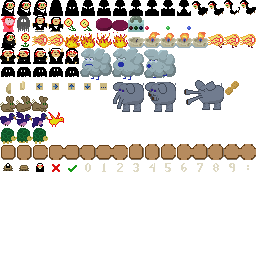
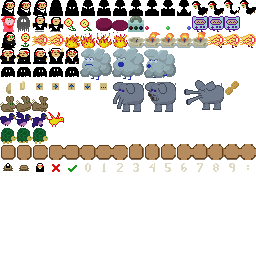
jammio cameo

Changed region(s): [[0.75, 0.0625, 0.9375, 0.125]]

diff --git a/src/game/hero/hero_event.c b/src/game/hero/hero_event.c
@@ -103,6 +103,11 @@ static void hero_cast_turtle(struct sprite *sprite) {
   SPRITE->mode=HERO_MODE_TURTLE;
   //TODO sound effect
 }
+ 
+static void hero_cast_jammio(struct sprite *sprite) {
+  SPRITE->mode=HERO_MODE_JAMMIO;
+  //TODO sound effect
+}
 
 static void hero_end_transform(struct sprite *sprite) {
 
@@ -147,6 +152,7 @@ static void hero_end_hole(struct sprite *sprite) {
   SPELLCHECK(rabbit,DIR_E,DIR_E,DIR_S,DIR_E)
   SPELLCHECK(bird,DIR_N,DIR_N,DIR_W,DIR_E,DIR_N)
   SPELLCHECK(turtle,DIR_W,DIR_W,DIR_E,DIR_E,DIR_S)
+  SPELLCHECK(jammio,DIR_N,DIR_N,DIR_S,DIR_S,DIR_W,DIR_E,DIR_W,DIR_E)
   #undef SPELLCHECK
   SPRITE->spellc=0;
   //TODO repudiation
@@ -326,6 +332,7 @@ static void hero_action_begin(struct sprite *sprite) {
     case HERO_MODE_RABBIT: hero_end_transform(sprite); break;
     case HERO_MODE_BIRD: hero_end_transform(sprite); break;
     case HERO_MODE_TURTLE: hero_end_transform(sprite); break;
+    case HERO_MODE_JAMMIO: hero_end_transform(sprite); break;
   }
 }
  
@@ -388,6 +395,7 @@ void hero_quantized_motion(struct sprite *sprite,int nx,int ny) {
     if ((tileid==0x2e)||(tileid==0x2f)) {
       if (SPRITE->mode==HERO_MODE_RABBIT) return;
       if (SPRITE->mode==HERO_MODE_TURTLE) return;
+      if (SPRITE->mode==HERO_MODE_JAMMIO) return;
       hero_begin_tree(sprite,tileid);
     } else if ((tileid==0x3e)||(tileid==0x3f)) {
       hero_begin_hole(sprite,tileid);

diff --git a/src/game/hero/sprite_hero.c b/src/game/hero/sprite_hero.c
@@ -105,6 +105,7 @@ void hero_animate(struct sprite *sprite,double elapsed) {
       case HERO_MODE_RABBIT: sprite->tileid+=0x60; break;
       case HERO_MODE_BIRD: sprite->tileid+=0x70; break;
       case HERO_MODE_TURTLE: sprite->tileid+=0x80; break;
+      case HERO_MODE_JAMMIO: sprite->tileid+=0x1c; break;
     }
     sprite->xform=(SPRITE->facedir==DIR_W)?EGG_XFORM_XREV:0;
     
@@ -116,6 +117,7 @@ void hero_animate(struct sprite *sprite,double elapsed) {
       case HERO_MODE_RABBIT: sprite->tileid+=0x60; break;
       case HERO_MODE_BIRD: sprite->tileid+=0x70; break;
       case HERO_MODE_TURTLE: sprite->tileid+=0x80; break;
+      case HERO_MODE_JAMMIO: sprite->tileid+=0x1c; break;
     }
     sprite->xform=(SPRITE->facedir==DIR_W)?EGG_XFORM_XREV:0;
   }
@@ -303,6 +305,7 @@ static void _hero_update(struct sprite *sprite,double elapsed) {
     case HERO_MODE_RABBIT: hero_update_FREE(sprite,elapsed,10.0); break;
     case HERO_MODE_BIRD: hero_update_FREE(sprite,elapsed,6.0); break;
     case HERO_MODE_TURTLE: hero_update_FREE(sprite,elapsed,3.0); break;
+    case HERO_MODE_JAMMIO: hero_update_FREE(sprite,elapsed,6.0); break;
     case HERO_MODE_BIRDHURT: hero_update_HURT(sprite,elapsed); break;
   }
   hero_animate(sprite,elapsed);

diff --git a/src/game/hero/hero_internal.h b/src/game/hero/hero_internal.h
@@ -14,6 +14,7 @@
 #define HERO_MODE_BIRD 8
 #define HERO_MODE_TURTLE 9
 #define HERO_MODE_BIRDHURT 10
+#define HERO_MODE_JAMMIO 11
 
 struct sprite_hero {
   struct sprite hdr;

diff --git a/README.md b/README.md
@@ -9,27 +9,22 @@ For [GDEX Game Jam 2024](https://itch.io/jam/gdex-game-jam-2024), theme "FULL MO
 ## TODO
 
 Required:
-- [x] Tints are broken. In web, the highlighted triangle is green. Should be yellow.
-- [x] Temple interior.
-- [x] Placeholder graphics, all over the place.
-- [x] Speed clock and high score.
-- [x] Don't put anything burnable on the borders.
-- [x] !!! Forbid transforming out of bird if there's no vacant space. (eg just north of the island)
 - [ ] Sound effects.
 - [ ] Fireworks when transforming to/from animal.
 - [ ] Crow. Or maybe drop it. Is there any need for a crow's assistance? ...have somebody play at the review session Wednesday
-- [ ] Hello: Roll in credits after a delay?
-- [ ] Needs an extra click to start on Itch, what gives?
+- [x] Needs an extra click to start on Itch, what gives? ...trivially reproducible, just iframe the main html.
+- - ...but now it's not happening anymore on itch. Whatever. Added a "click you have to" message to the description.
 - [ ] Pics and such for Itch page.
 - [ ] Open Itch page to public. Currently password "dot-in-a-habit"
 
 Stretch goals or uncertain:
+- [ ] Hello: Roll in credits after a delay?
 - [ ] Static map animation, eg ripples on water.
 - [ ] Visual transitions.
 - [ ] Music.
 - - [ ] Drums for Doors Without Walls.
 - - [ ] Review instruments again, after I've heard them all a few times.
-- [ ] Jammio cameo
+- [x] Jammio cameo
 - [ ] fleshpuppet should take damage while ghost. There's very few places where damage is possible, I don't think this matters.
 
 ## Recommended Course
